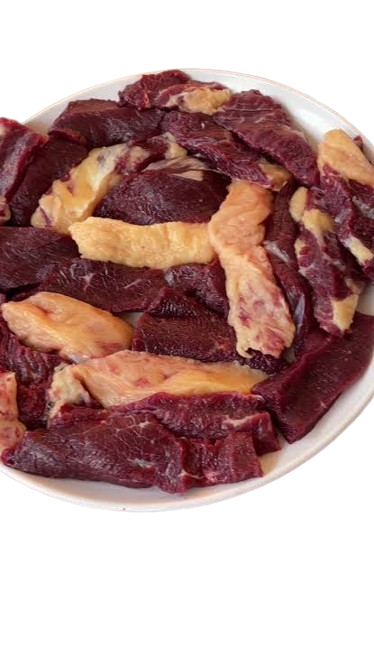
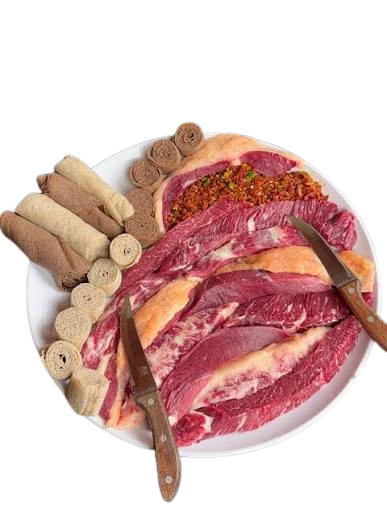
add filter

diff --git a/Group-assignment/script.js b/Group-assignment/script.js
@@ -26,7 +26,7 @@ let foods = [
     id: "1",
     category: "Main",
     name: "Doro wot",
-    price: 600, // ETB
+    price: 800, // ETB
     spicy: true,
     fasting: false,
     image: "Assets/doro.png",
@@ -42,24 +42,79 @@ let foods = [
     image: "Assets/gomen.png",
     rating: 3.45,
   },
+  {
+    id: "3",
+    category: "Main",
+    name: "Kitfo",
+    price: 2000, // ETB
+    spicy: true,
+    fasting: false,
+    image: "Assets/kitfo.png",
+    rating: 4.45,
+  },
+  {
+    id: "4",
+    category: "Main",
+    name: "Kurte",
+    price: 1500, // ETB
+    spicy: true,
+    fasting: false,
+    image: "Assets/kuret.png",
+    rating: 4.85,
+  },
 ];
 let cart = JSON.parse(localStorage.getItem("cart")) || [];
 // let cart = [];
 let cartContainer = document.querySelector(".cart-items");
-for (let food of foods) {
-  document.querySelector(".dishes-grid").innerHTML += `
-  <div class="dish-card" data-id="${food.id}">
-        <div class="dish-img"><img src="${food.image}" alt=""></div>
-        <div class="dish-name">${food.name}</div>
-        <div class="dish-subtext">Starting From</div>
-        <div class="dish-price">ETB ${food.price.toFixed(2)}</div>
-        <div class="dish-meta">
-            <div class="dish-rating"><i class="fa-solid fa-star"></i> ${food.rating}</div>
-            <div class="dish-add-to-cart"><button class="add-to-cart">Add to Cart</button></div>
+// for (let food of foods) {
+//   document.querySelector(".dishes-grid").innerHTML += `
+//   <div class="dish-card" data-id="${food.id}">
+//         <div class="dish-img"><img src="${food.image}" alt=""></div>
+//         <div class="dish-name">${food.name}</div>
+//         <div class="dish-subtext">Starting From</div>
+//         <div class="dish-price">ETB ${food.price.toFixed(2)}</div>
+//         <div class="dish-meta">
+//             <div class="dish-rating"><i class="fa-solid fa-star"></i> ${food.rating}</div>
+//             <div class="dish-add-to-cart"><button class="add-to-cart">Add to Cart</button></div>
+//         </div>
+//     </div>
+//   `;
+// }
+function renderDishes(foodList) {
+  const dishesGrid = document.querySelector(".dishes-grid");
+
+  dishesGrid.innerHTML = "";
+
+  for (let food of foodList) {
+    dishesGrid.innerHTML += `
+      <div class="dish-card" data-id="${food.id}">
+        <div class="dish-img">
+          <img src="${food.image}" alt="">
         </div>
-    </div>
-  `;
+
+        <div class="dish-name">${food.name}</div>
+
+        <div class="dish-subtext">Starting From</div>
+
+        <div class="dish-price">
+          ETB ${food.price.toFixed(2)}
+        </div>
+
+        <div class="dish-meta">
+          <div class="dish-rating">
+            <i class="fa-solid fa-star"></i> ${food.rating}
+          </div>
+
+          <div class="dish-add-to-cart">
+            <button class="add-to-cart">Add to Cart</button>
+          </div>
+        </div>
+      </div>
+    `;
+  }
 }
+
+renderDishes(foods);
 
 render();
 
@@ -217,4 +272,54 @@ cartContainer.addEventListener("click", function (e) {
   console.log(cart);
 
   render();
+});
+
+const categories = document.querySelector(".categories-list");
+
+categories.addEventListener("click", function (e) {
+  const category = e.target.closest(".category-item");
+
+  if (!category) {
+    return;
+  }
+
+  const type = category.dataset.category;
+
+  let filteredFoods;
+
+  if (type === "all") {
+    filteredFoods = foods;
+  }
+
+  if (type === "affordable") {
+    filteredFoods = foods.filter(function (food) {
+      return food.price < 500;
+    });
+  }
+
+  if (type === "classy") {
+    filteredFoods = foods.filter(function (food) {
+      return food.price >= 1200;
+    });
+  }
+
+  if (type === "spicy") {
+    filteredFoods = foods.filter(function (food) {
+      return food.spicy === true;
+    });
+  }
+
+  if (type === "fasting") {
+    filteredFoods = foods.filter(function (food) {
+      return food.fasting === true;
+    });
+  }
+
+  if (type === "non-fasting") {
+    filteredFoods = foods.filter(function (food) {
+      return food.fasting === false;
+    });
+  }
+
+  renderDishes(filteredFoods);
 });

diff --git a/Group-assignment/index.html b/Group-assignment/index.html
@@ -45,13 +45,17 @@
                                 class="fa-solid fa-chevron-right"></i></div></a>
                 </div>
                 <div class="categories-list">
-                    <div class="category-item">🍔</div>
-                    <div class="category-item">🍕</div>
-                    <div class="category-item">🍟</div>
-                    <div class="category-item">🍲</div>
-                    <div class="category-item">🥪</div>
-                    <div class="category-item">🍦</div>
-                    <div class="category-item">🍰</div>
+                    <div class="category-item" data-category="all">🍽</div>
+
+                    <div class="category-item" data-category="fasting">🌱</div>
+
+                    <div class="category-item" data-category="affordable">💰</div>
+
+                    <div class="category-item" data-category="spicy">🌶</div>
+
+                    <div class="category-item" data-category="non-fasting">🍗</div>
+
+                    <div class="category-item" data-category="classy">✨</div>
                 </div>
             </section>
 

diff --git a/Group-assignment/styles.css b/Group-assignment/styles.css
@@ -221,6 +221,34 @@ body {
   font-size: 26px;
   border: 1px solid #2a2a32;
   flex-shrink: 0;
+  position: relative;
+}
+
+.category-item::before {
+  /* content: "ETB"; */
+  position: absolute;
+  top: 90%;
+  font-size: 10px;
+  /* position: absolute; */
+}
+.category-item:nth-of-type(1)::before {
+  content: "All";
+}
+
+.category-item:nth-of-type(2)::before {
+  content: "Fasting";
+}
+.category-item:nth-of-type(3)::before {
+  content: "Affordable";
+}
+.category-item:nth-of-type(4)::before {
+  content: "Spicy";
+}
+.category-item:nth-of-type(5)::before {
+  content: "Non-fasting";
+}
+.category-item:nth-of-type(6)::before {
+  content: "classy";
 }
 
 /* Popular Dishes Section */
